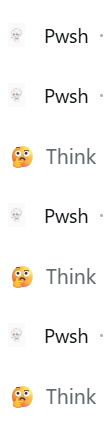
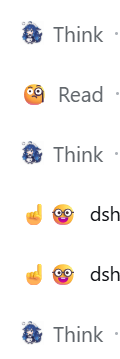
Update screenshots with emoji editing and custom image examples

diff --git a/README.md b/README.md
@@ -18,6 +18,7 @@ A [DeepSeek Harness](https://github.com/deepseek-ai/deepseek-harness) Web plugin
 
 <img src="assets/tool-icons-working.png" width="280" alt="Tool icons rendered in the chat">
 <img src="assets/custom-image-icon.png" width="280" alt="Custom uploaded image used as a tool icon">
+<img src="assets/settings-panel.png" width="560" alt="Tool emoji settings panel for customizing emoji and images">
 
 ## Installation
 

diff --git a/README.zh.md b/README.zh.md
@@ -18,6 +18,7 @@
 
 <img src="assets/tool-icons-working.png" width="280" alt="聊天中的工具 emoji 图标">
 <img src="assets/custom-image-icon.png" width="280" alt="自定义上传图片作为工具图标">
+<img src="assets/settings-panel.png" width="560" alt="工具 emoji 设置面板，可自定义 emoji 和上传图片">
 
 ## 安装
 
